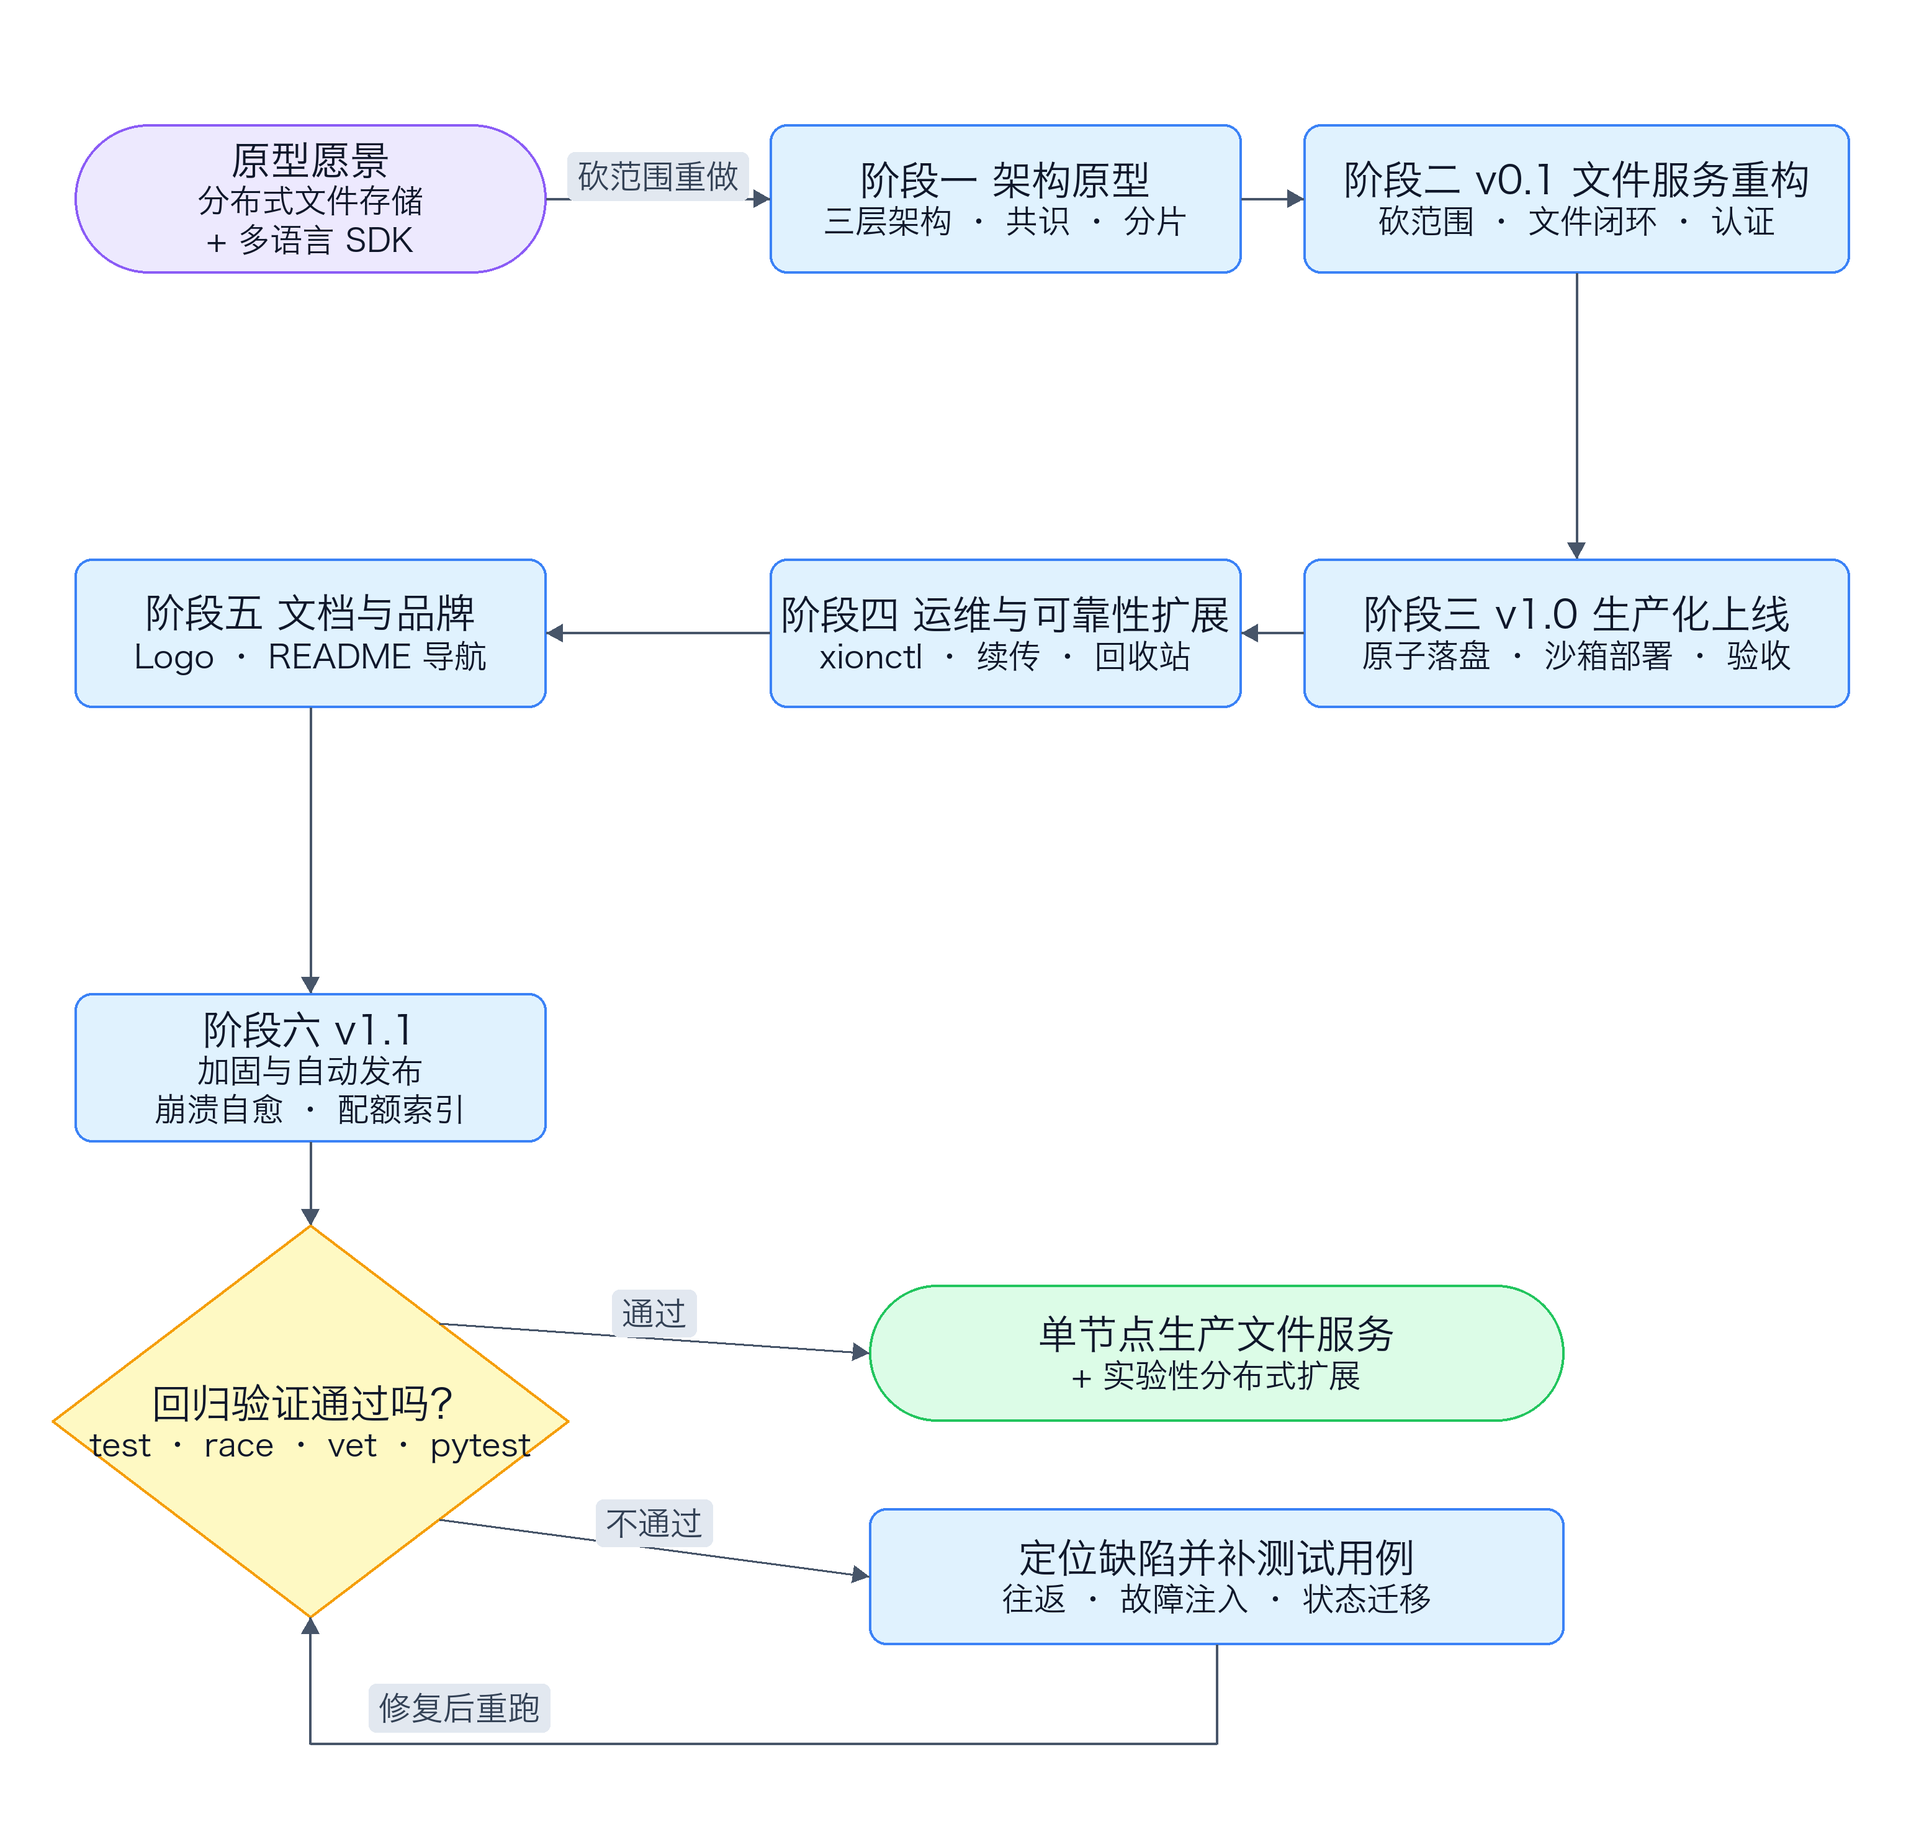
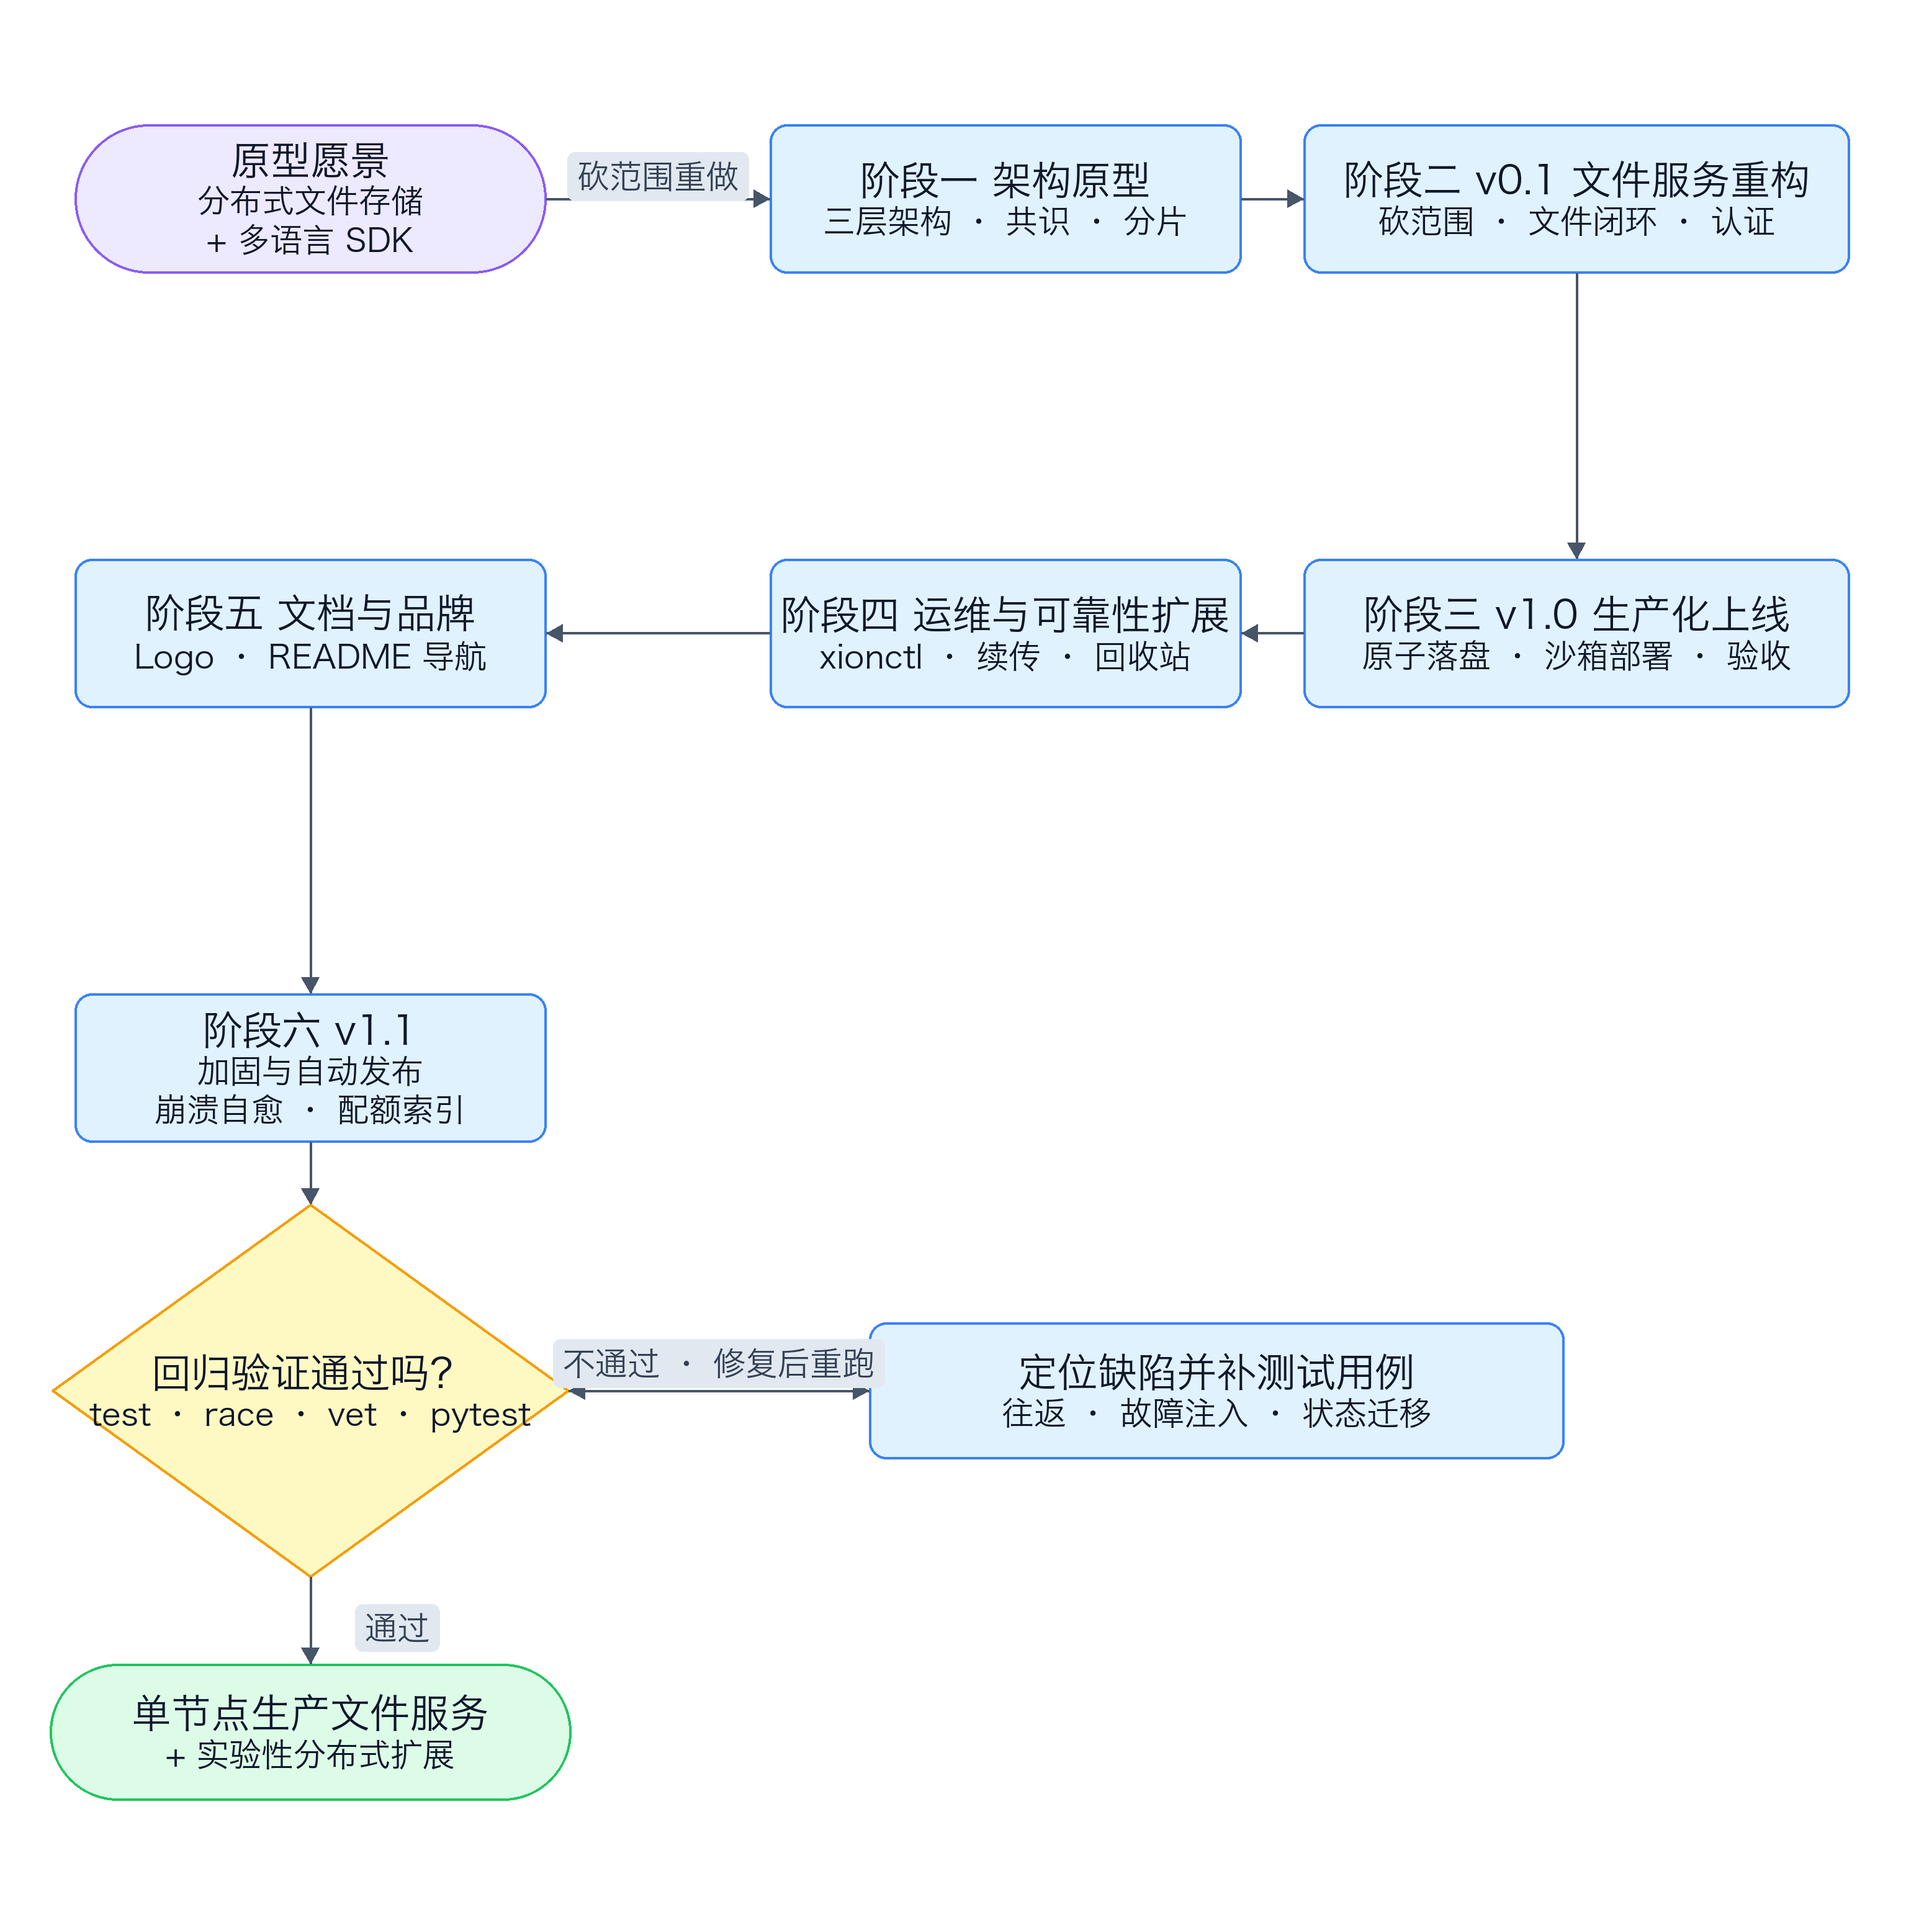
docs: 流程图通过分支向下、不通过分支改为右侧双向箭头

diff --git a/scripts/draw_dev_flow.py b/scripts/draw_dev_flow.py
@@ -78,10 +78,12 @@ class Canvas:
             y += h + gap
 
     # ---------- 连线 ----------
-    def arrow(self, points, label=None, label_offset=(0, -18), dashed=False):
+    def arrow(self, points, label=None, label_offset=(0, -18), both=False):
         pts = [(px * SCALE, py * SCALE) for px, py in points]
         self.d.line(pts, fill=LINE, width=2 * SCALE, joint="curve")
         self._arrow_head(pts[-2], pts[-1])
+        if both:
+            self._arrow_head(pts[1], pts[0])
         if label:
             mx = (pts[-2][0] + pts[-1][0]) / 2 + label_offset[0] * SCALE
             my = (pts[-2][1] + pts[-1][1]) / 2 + label_offset[1] * SCALE
@@ -129,7 +131,7 @@ def main() -> None:
     r1, hbox = 100, 120
     r2 = 450
     r3 = 800
-    W, H = 1550, 1480
+    W, H = 1550, 1540
 
     cv = Canvas(W, H)
 
@@ -157,25 +159,21 @@ def main() -> None:
     cv.box(c1, r3, w1, hbox, ["阶段六 v1.1", "加固与自动发布", "崩溃自愈 · 配额索引"])
 
     # ---------- 折返：阶段六框底正中 → 回归验证菱形顶 ----------
-    dcx, dcy, dhw, dhh = c1 + w1 / 2, 1145, 208, 158
+    dcx, dcy, dhw, dhh = c1 + w1 / 2, 1120, 208, 150
     cv.arrow([(dcx, r3 + hbox), (dcx, dcy - dhh)])
 
-    # ---------- 第 4 层：回归验证与交付 / 缺陷回路 ----------
+    # ---------- 第 4 层：回归验证；通过一路向下，不通过在右侧双向箭头 ----------
     cv.diamond(dcx, dcy, dhw, dhh, ["回归验证通过吗？", "test · race · vet · pytest"])
 
+    jw = 420
+    cv.box(dcx - jw / 2, dcy + dhh + 70, jw, 110,
+           ["单节点生产文件服务", "+ 实验性分布式扩展"], "result", rounded=True)
+    cv.arrow([(dcx, dcy + dhh), (dcx, dcy + dhh + 70)], label="通过", label_offset=(70, 6))
+
     bx, bw, bh = 700, 560, 110
-    cv.box(bx, dcy - 110, bw, bh, ["单节点生产文件服务", "+ 实验性分布式扩展"], "result", rounded=True)
-    cv.arrow([(dcx + dhw * 0.5, dcy - dhh * 0.5), (bx, dcy - 55)],
-             label="通过", label_offset=(0, -20))
-
-    cv.box(bx, dcy + 70, bw, bh, ["定位缺陷并补测试用例", "往返 · 故障注入 · 状态迁移"])
-    cv.arrow([(dcx + dhw * 0.5, dcy + dhh * 0.5), (bx, dcy + 125)],
-             label="不通过", label_offset=(0, -20))
-
-    # 修复后重跑：从缺陷框下方绕回菱形底顶点
-    cv.arrow([(bx + bw / 2, dcy + 180), (bx + bw / 2, dcy + 260),
-              (dcx, dcy + 260), (dcx, dcy + dhh)],
-             label="修复后重跑", label_offset=(120, 22))
+    cv.box(bx, dcy - bh / 2, bw, bh, ["定位缺陷并补测试用例", "往返 · 故障注入 · 状态迁移"])
+    cv.arrow([(dcx + dhw, dcy), (bx, dcy)], both=True,
+             label="不通过 · 修复后重跑", label_offset=(0, -22))
 
     os.makedirs(os.path.dirname(OUT), exist_ok=True)
     cv.img.save(OUT)

diff --git a/开发指南.md b/开发指南.md
@@ -70,7 +70,7 @@ gantt
 
 ## 三、开发流程图
 
-流程按"目标收敛 — 生产化 — 故障面扩展 — 加固回归"重画，只保留主线、一个关键判断和一条回归回路。图形横向回行展开，层与层之间用向下的箭头连接：第一层自左向右（原型愿景 → 阶段一 → 阶段二），从"阶段二"框底正中折返向下、落到正下方对齐的"阶段三"；第二层自右向左（阶段三 → 阶段四 → 阶段五），再从"阶段五"折返向下进入左列的"阶段六"；"阶段六"下方是"回归验证"，通过则交付单节点生产服务，不通过则补测试用例后重跑。
+流程按"目标收敛 — 生产化 — 故障面扩展 — 加固回归"重画，只保留主线、一个关键判断和一条回归回路。图形横向回行展开，层与层之间用向下的箭头连接：第一层自左向右（原型愿景 → 阶段一 → 阶段二），从"阶段二"框底正中折返向下、落到正下方对齐的"阶段三"；第二层自右向左（阶段三 → 阶段四 → 阶段五），再从"阶段五"折返向下进入左列的"阶段六"；"阶段六"下方是"回归验证"：通过则继续向下交付单节点生产服务；不通过则通过右侧的双向箭头进入"定位缺陷并补测试用例"，修复后回到验证重跑。
 
 ![开发流程图：回行排列，层与层之间用向下的折返箭头连接](docs/assets/dev-flow.png)
 
